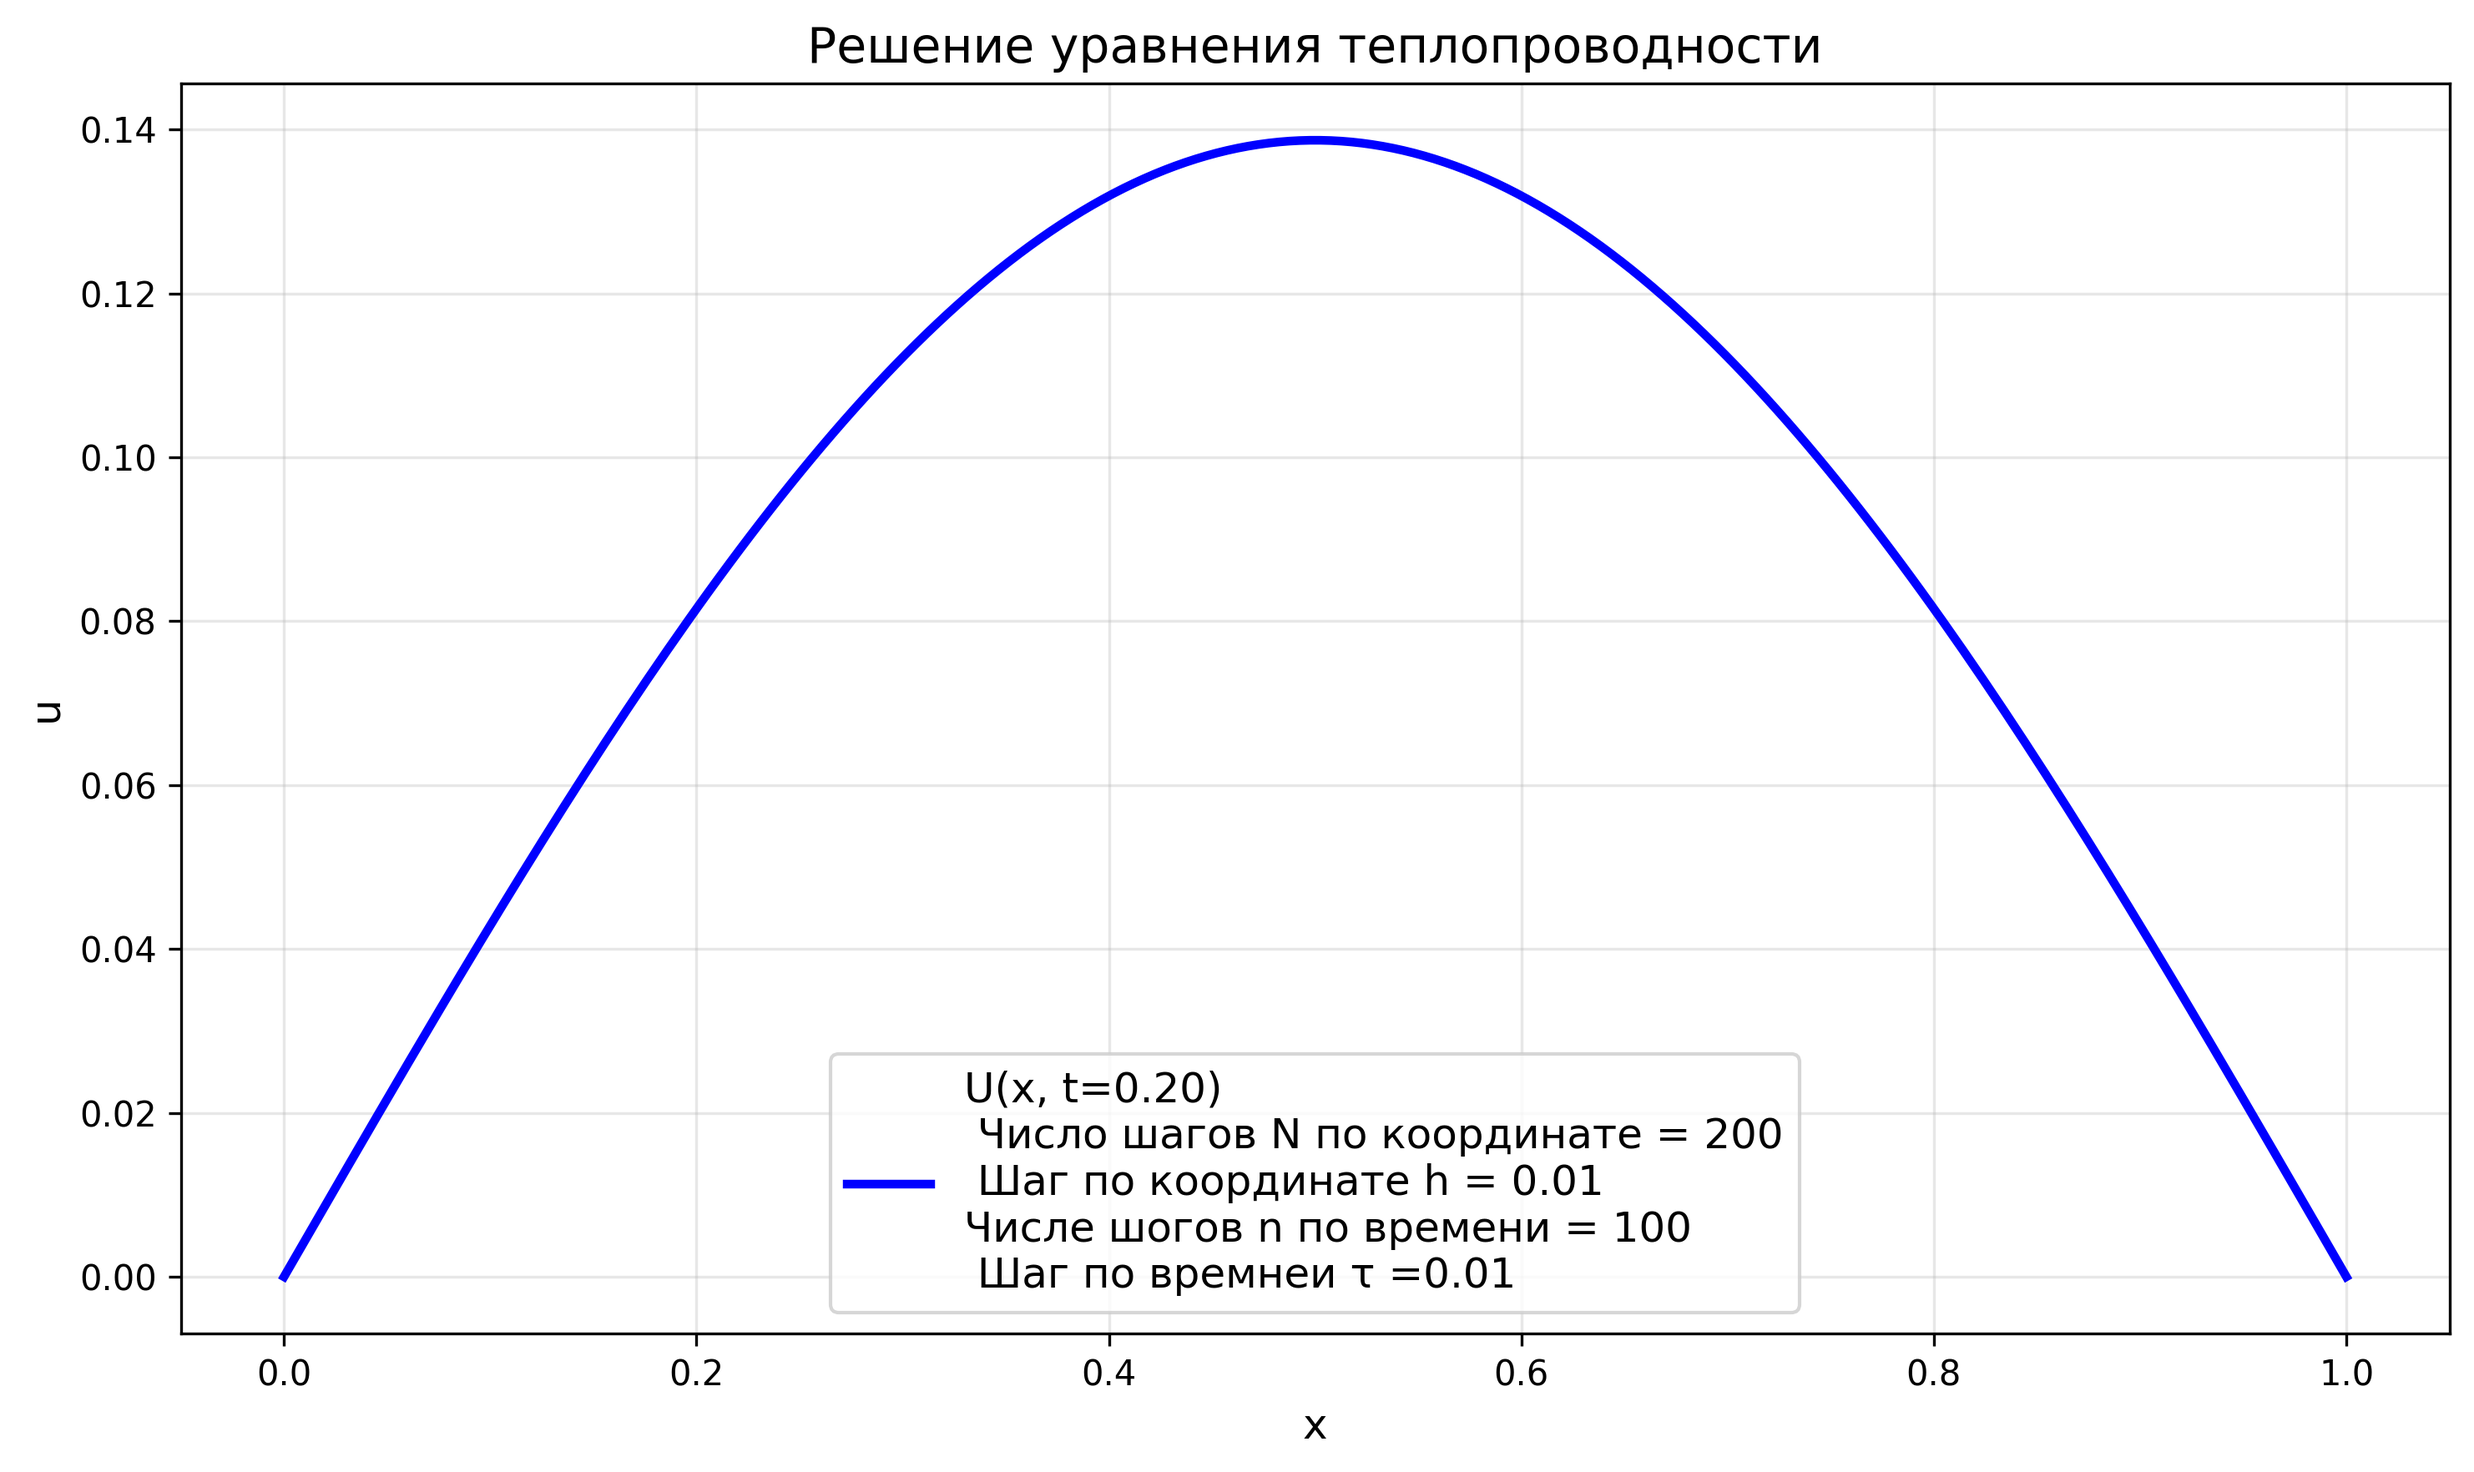
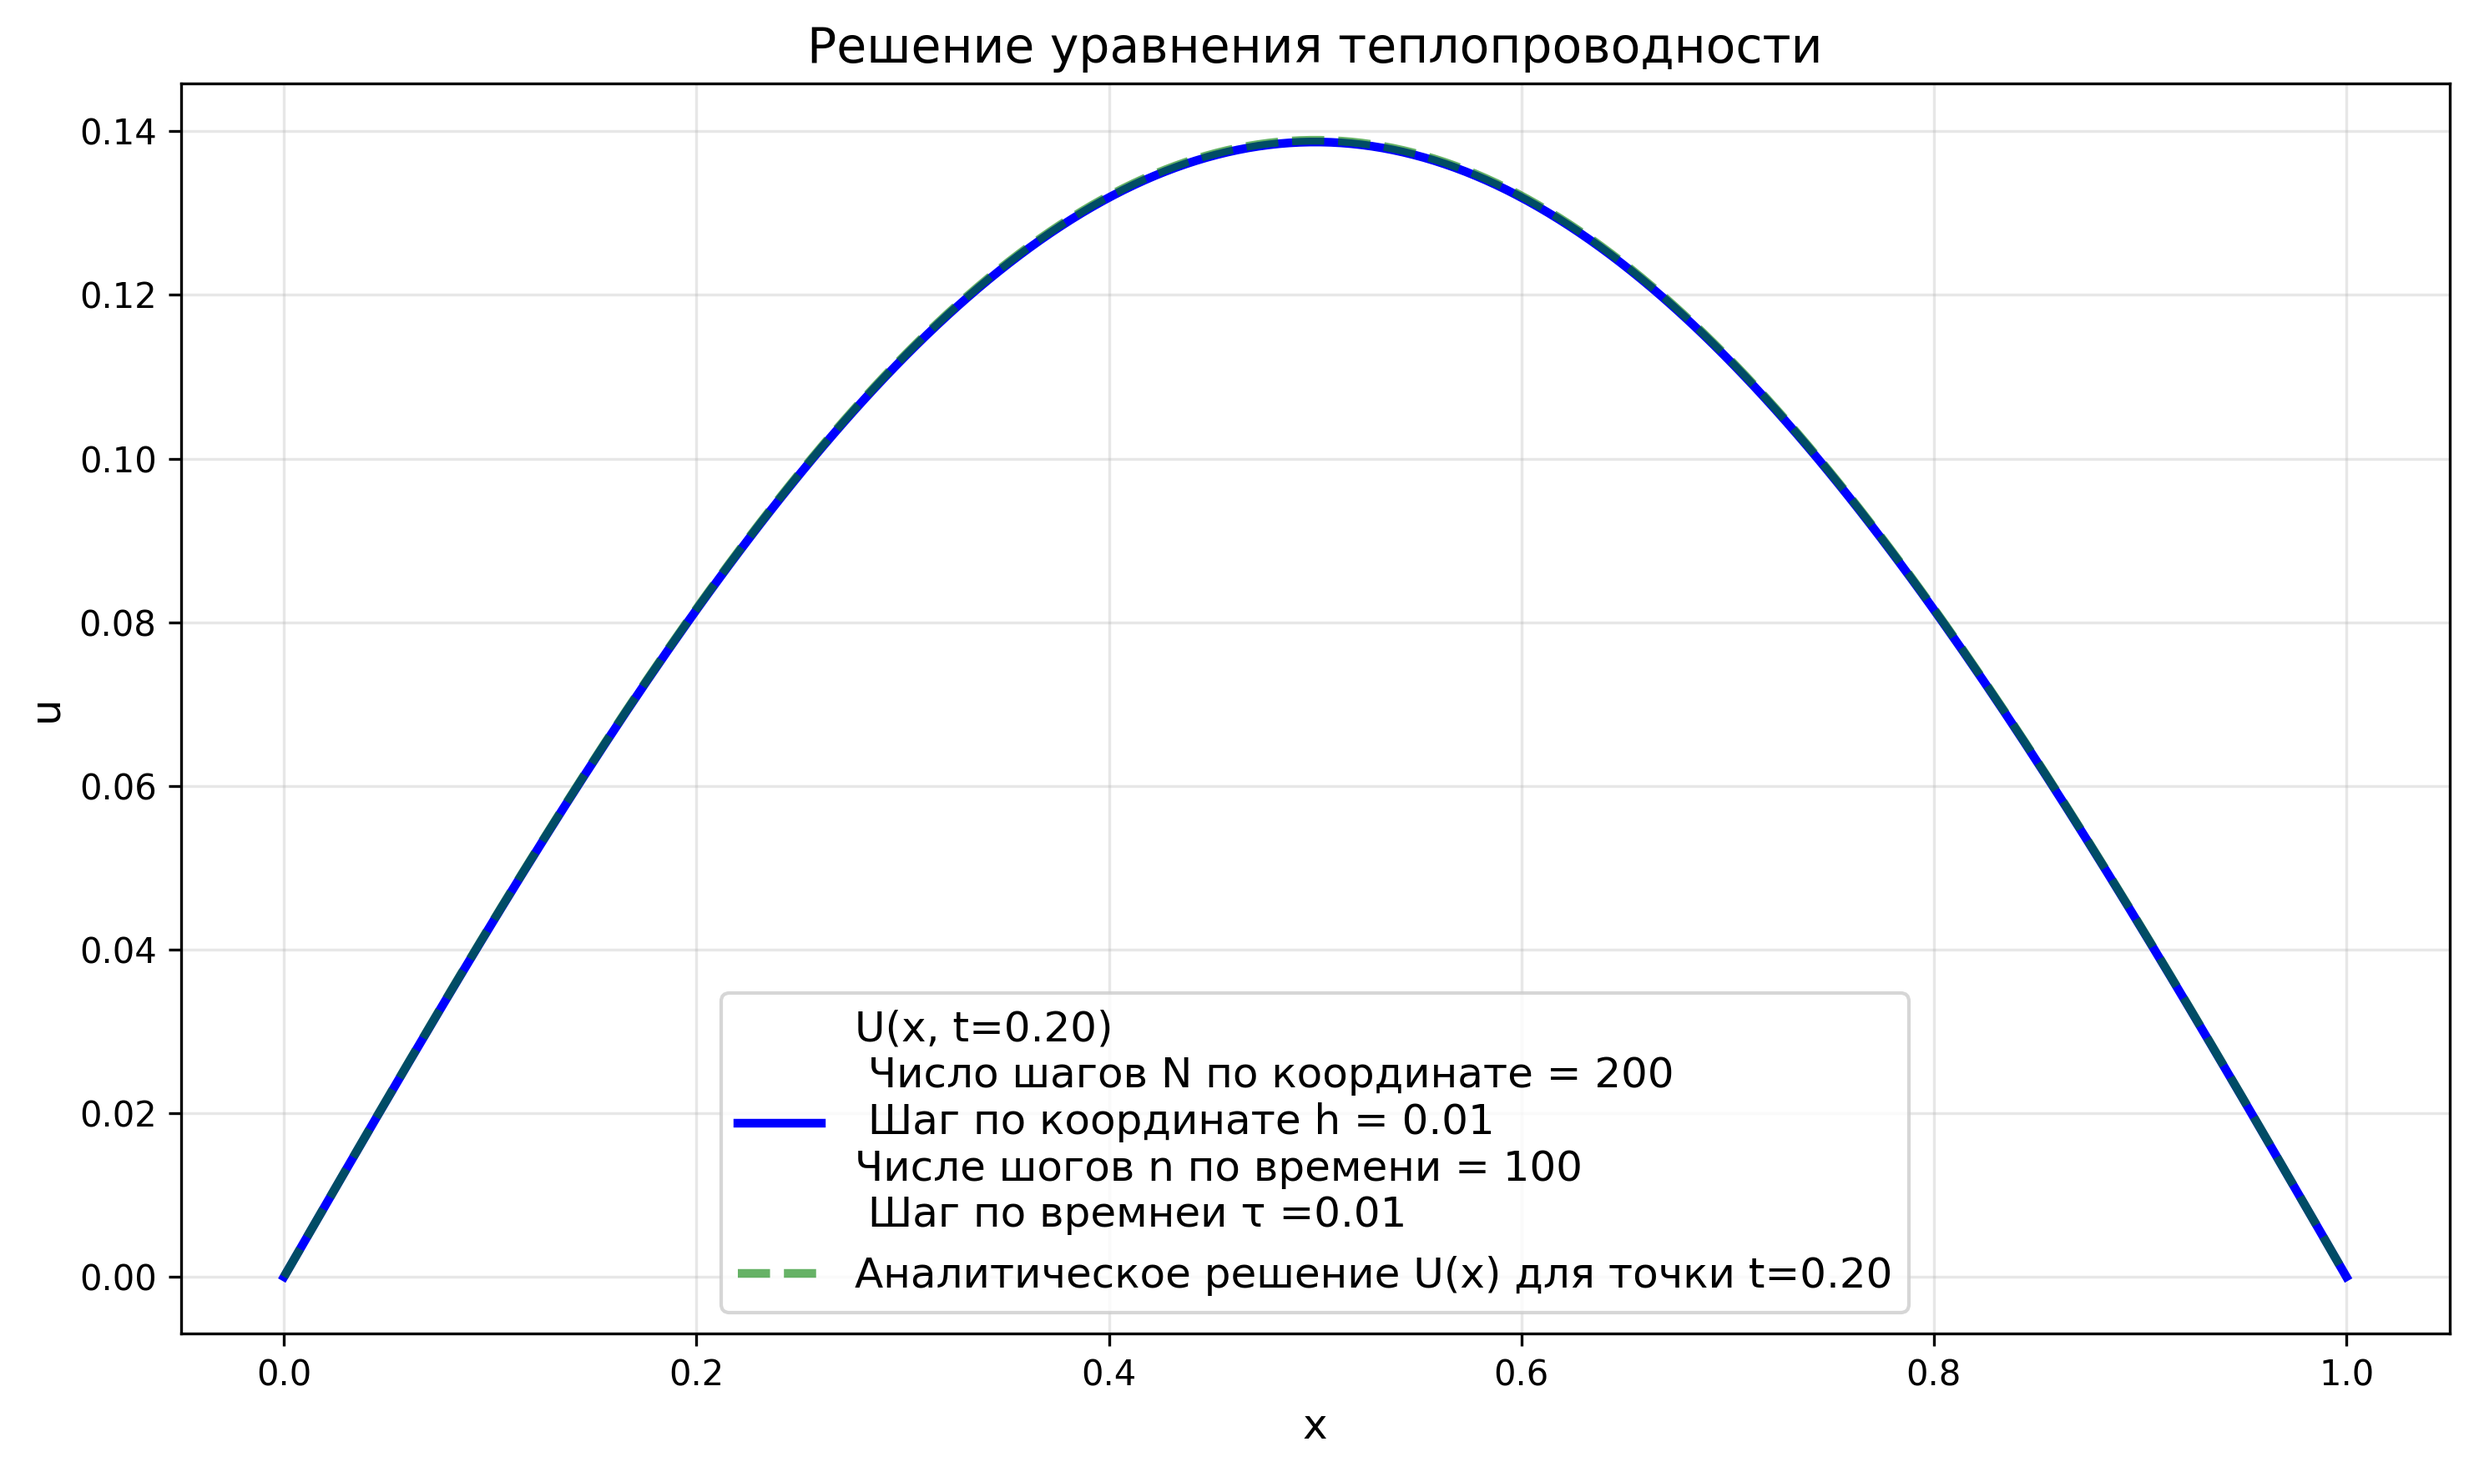
задача 11

diff --git a/Задача 11/main.py b/Задача 11/main.py
@@ -1,0 +1,69 @@
+import math as m
+import numpy as np
+import matplotlib.pyplot as plt
+
+
+def tri_diogonal(A,d):
+    n = len(A) #вычисляем ремзерность матрицы 
+    y=np.zeros(n)
+    if (n!=len(d)):
+        print('Несовподение размерностей A и D')
+        return
+    for i in range(n-1):
+        e=A[i+1,i]/A[i,i]
+        A[i+1,i]=0
+        A[i+1,i+1]=A[i+1,i+1]-e*A[i,i+1]
+        d[i+1]=d[i+1]-e*d[i]
+    y[n-1]=d[n-1]/A[n-1,n-1]
+    for i in reversed(range(n-1)):
+        y[i]=(d[i]-A[i,i+1]*y[i+1])/A[i,i]
+    return y
+def potencial(x):
+    return(1/2*x*x)
+#(-L;L)-интревал по x
+#N-число точка на это интервале
+#psi0-начлаьное приближение вектора волновой функции задается просто как psi0=(1,1,1,...,1), конечно сразу нормируется 
+#U-наш потенциал
+#e-точность СХОДИМОСТИ метода обратных итераций на волновую функцию, ВНИМАНИЕ!!! это не точнсть на волновую функцию (см. Точностный критерий.jpg) влияет еще L и N
+def reshenie(L,U,N,e):
+    h=2*L/(N-1)
+    psi0=np.ones(N)
+    norm0 = np.sqrt(np.sum(psi0**2) * h)  
+    psi0 = psi0 / norm0
+    psi_old=np.zeros((N))
+    psi_res=np.zeros((N))
+    psi_res=psi0
+    H=np.zeros((N, N))
+    x=np.linspace(-L,L,N)
+    for i in range (N-1):
+        H[i,i]=1/(h*h)+U(x[i])
+        H[i,i+1]=-1/(2*h*h)
+        H[i+1,i]=-1/(2*h*h)
+    H[N-1,N-1]=1/(h*h)+U(x[N-1])
+    while (1-np.abs(np.sum(psi_old * psi_res) * h)>e):
+        psi_old=psi_res
+        psi_res=tri_diogonal(H.copy(),psi_old.copy())
+        norm_res = np.sqrt(np.sum(psi_res**2) * h)
+        psi_res = psi_res / norm_res
+    H_psi = np.dot(H,psi_res)  
+    numerator = np.dot(psi_res, H_psi)
+    denominator = np.dot(psi_res, psi_res)
+    E0 = numerator / denominator
+    plt.figure(figsize=(10, 6))
+    t=np.linspace(-L,L,100000)
+    y=[np.pi**(-0.25) * np.exp(-ti**2 / 2) for ti in t]
+    plt.plot(x, psi_res , 'b-', linewidth=2.5,alpha=0.6, label=f'Численное решение ψ0(x)\n Интервал x: ({-L},{L})\n Число точек N={N}\n Точность сходимости мтеода обратных итераций e = {e}\n E0={E0:.3f}')
+    plt.plot(t, y , 'g--', linewidth=2.5,alpha=0.6, label=f'Аналитическое решение ψ0(x)')
+    plt.xlabel('x', fontsize=12)
+    plt.ylabel('ψ', fontsize=12)
+    plt.title('Решение уравнения Шрёдингера', fontsize=14)
+    plt.grid(True, alpha=0.3)
+    plt.legend(fontsize=12)
+    plt.tight_layout()
+    plt.savefig('ГРафик_для_задачи_11.png', dpi=300, bbox_inches='tight')
+    plt.show()
+    return(E0)
+
+
+
+print(reshenie(10,potencial,1000,0.0001))

diff --git a/Задача 10/main.py b/Задача 10/main.py
@@ -47,8 +47,10 @@ def graf_2d(u,T,N,n,MAIN):
     t=np.linspace(0,T*(n-1),n)
     x=np.linspace(0,1,N)
     MOMENT=T*MAIN
+    y=[m.exp(-m.pi*m.pi*MOMENT)*m.sin(m.pi*xi) for xi in x]
     plt.figure(figsize=(10, 6))
     plt.plot(x, u[MAIN, :] , 'b-', linewidth=2.5, label=f'U(x, t={MOMENT:.2f})\n Число шагов N по координате = {N}\n Шаг по координате h = {h:.2f} \nЧисле шогов n по времени = {n}\n Шаг по времнеи τ ={T}')
+    plt.plot(x, y , 'g--', linewidth=2.5,alpha=0.6, label=f'Аналитическое решение U(x) для точки t={MOMENT:.2f}')
     plt.xlabel('x', fontsize=12)
     plt.ylabel('u', fontsize=12)
     plt.title('Решение уравнения теплопроводности', fontsize=14)
@@ -92,7 +94,7 @@ def START_3d(T,N,n):
 
 
 
-        
+       
 START_2d(0.01,200,100,20)
 START_3d(0.01,200,30)    
 
